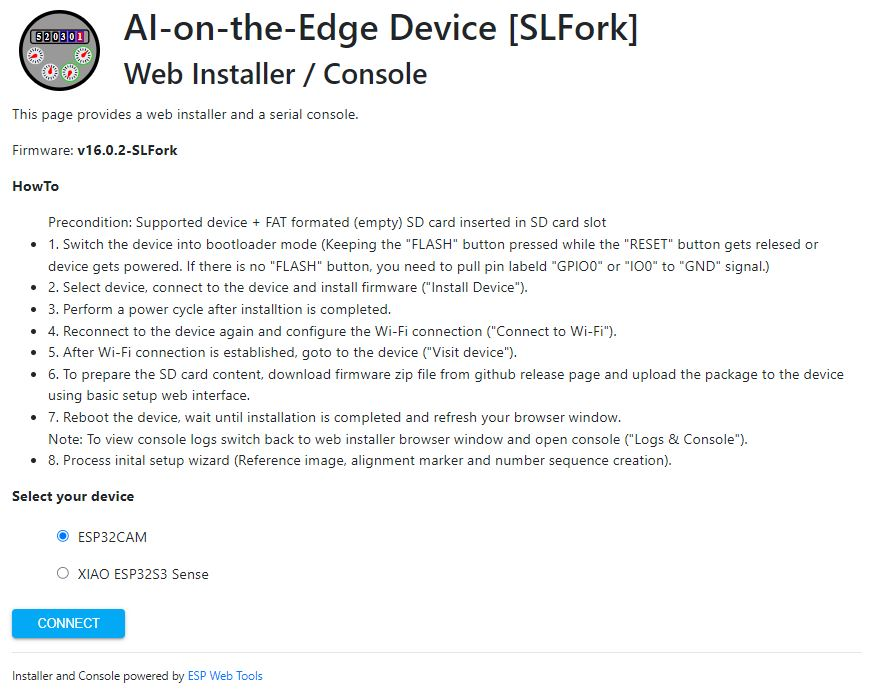
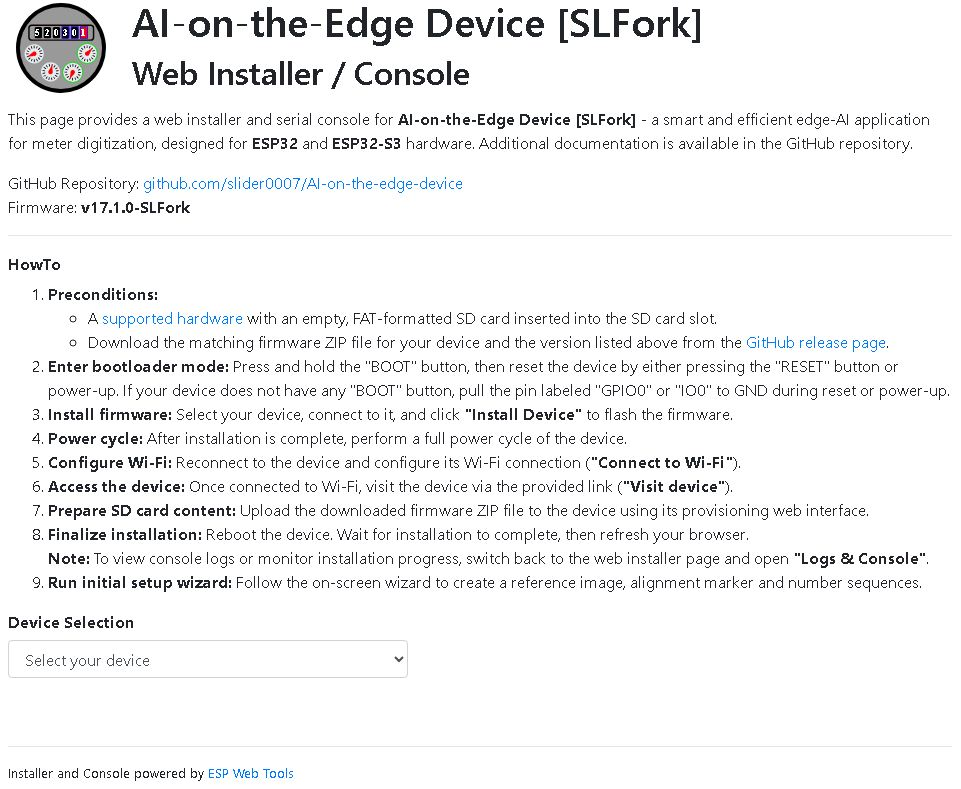
Update docs

Changed region(s): [[0.0, 0.3043, 0.9886, 0.9435], [0.0, 0.0, 0.9577, 0.2739], [0.0, 0.9739, 0.3089, 1.0]]

diff --git a/docs/API/REST/info.md b/docs/API/REST/info.md
@@ -29,8 +29,9 @@ The following infos are available:
 | `device_starttime`                   | Device Start / Boot Time                           | `2024-02-24T10:56:11+0100`
 | `device_uptime`                      | Device Uptime [sec]                                | `496`
 | `connection_status`                  | Connection Status<br><br>Possible states:<br>- `Connected`<br>- `Disconnected` | `Connected`
-| `wlan_ssid`                          | WLAN SSID                                          | `IOTNETWORK`
-| `wlan_rssi`                          | WLAN Signal Strength [dBm]<br><br>Possible special values:<br>- -127: Not connected<br>- -255: No data | `-58`
+| `wlan_ssid`                          | WLAN SSID<br><br>Possible special value:<br>- `undefined`: WLAN disabled | `IOTNETWORK`
+| `wlan_rssi`                          | WLAN Signal Strength [dBm]<br><br>Possible special values:<br>- `-127`: Not connected<br>- `-255`: WLAN disabled | `-58`
+| `wlan_channel`                       | WLAN Channel<br><br>Possible special value:<br>- `-1`: WLAN disabled | `1` 
 | `mac_address`                        | Device MAC Address                                 | `41:23:D9:01:5E:AA`
 | `network_config`                     | Network Configuration<br><br>Possible states:<br>- `DHCP`<br>- `Static`| `DHCP`
 | `ipv4_address`                       | Device IPv4 Address                                | `192.168.1.4`

diff --git a/docs/API/REST/process_data.md b/docs/API/REST/process_data.md
@@ -32,7 +32,7 @@ The following data are available:
 | `process_error`                      | Process Error State<br>- Error definition: Process error with cycle abortion, e.g. alignment failed<br>- Deviation definition: Process deviation with cycle continuation, e.g. rate limit exceeded<br><br>Possible States:<br>- `0`: No error/deviation<br>- `-1`: One error occurred<br>- `-2`: Multiple process errors in a row<br>- `1`: One process deviation occurred<br>- `2`: Multiple process deviations in a row | `0`
 | `device_uptime`                      | Device Uptime [sec]                                 | `496`
 | `cycle_counter`                      | Number of processed cycles                          | `64`
-| `wlan_rssi`                          | WLAN Signal Strength [dBm]                          | `-58`
+| `wlan_rssi`                          | WLAN Signal Strength [dBm]<br><br>Possible special values:<br>- `-127`: Not connected<br>- `-255`: WLAN disabled | `-58`
 
 
 1. JSON:

diff --git a/docs/Configuration/Parameter/Network/Ethernet_IPv4_NetworkConfig.md b/docs/Configuration/Parameter/Network/Ethernet_IPv4_NetworkConfig.md
@@ -1,0 +1,22 @@
+# Parameter: Network Configuration
+
+|                   | WebUI               | REST API
+|:---               |:---                 |:----
+| Parameter Name    | Network Configuration | networkconfig
+| Default Value     | `DHCP`              | `0`
+| Input Options     | `DHCP`<br>`Static`  | `0`<br>`1`
+
+
+## Description
+
+Select the network configuration principle
+
+
+| Input Option               | Description
+|:---                        |:---
+| `DHCP`                     | Automatically assign IP related parameter provided by a server (router, AP)
+| `Static`                   | Manual configuration of network related parameter like, IP, subnet, gateway, DNS server
+
+
+!!! Note
+    To apply this parameter a device reboot is required.

diff --git a/docs/Configuration/Parameter/Network/Ethernet_IPv4_IPAddress.md b/docs/Configuration/Parameter/Network/Ethernet_IPv4_IPAddress.md
@@ -1,0 +1,20 @@
+# Parameter: IP Address
+
+|                   | WebUI               | REST API
+|:---               |:---                 |:----
+| Parameter Name    | IP Address          | ipaddress
+| Default Value     | empty               | empty
+
+
+## Description
+
+IP address of the device (network configuration: Static)
+
+
+!!! Note
+    To apply this parameter a device reboot is required.
+
+
+!!! Note
+    The IP address must be unique the subnet the device shall be connected to.
+    

diff --git a/docs/Configuration/Parameter/Network/Ethernet_IPv4_GatewayAddress.md b/docs/Configuration/Parameter/Network/Ethernet_IPv4_GatewayAddress.md
@@ -1,0 +1,15 @@
+# Parameter: Gateway Address
+
+|                   | WebUI               | REST API
+|:---               |:---                 |:----
+| Parameter Name    | Gateway Address     | gatewayaddress
+| Default Value     | empty               | empty
+
+
+## Description
+
+Gateway address of the subnet the device shall be connected to (network configuration: Static)
+
+
+!!! Note
+    To apply this parameter a device reboot is required.

diff --git a/docs/Configuration/Parameter/Network/Ethernet_IPv4_SubnetMask.md b/docs/Configuration/Parameter/Network/Ethernet_IPv4_SubnetMask.md
@@ -1,0 +1,15 @@
+# Parameter: Subnet Mask
+
+|                   | WebUI               | REST API
+|:---               |:---                 |:----
+| Parameter Name    | Subnet Mask         | subnetmask
+| Default Value     | empty               | empty
+
+
+## Description
+
+Subnet mask of the network the device shall be connected to (network configuration: Static)
+
+
+!!! Note
+    To apply this parameter a device reboot is required.

diff --git a/docs/Configuration/Parameter/Network/Ethernet_IPv4_DNSServer.md b/docs/Configuration/Parameter/Network/Ethernet_IPv4_DNSServer.md
@@ -1,0 +1,15 @@
+# Parameter: DNS Server
+
+|                   | WebUI               | REST API
+|:---               |:---                 |:----
+| Parameter Name    | DNS Server          | dnsserver
+| Default Value     | empty               | empty
+
+
+## Description
+
+DNS server address which provides name resolution service (network configuration: Static)
+
+
+!!! Note
+    To apply this parameter a device reboot is required.
